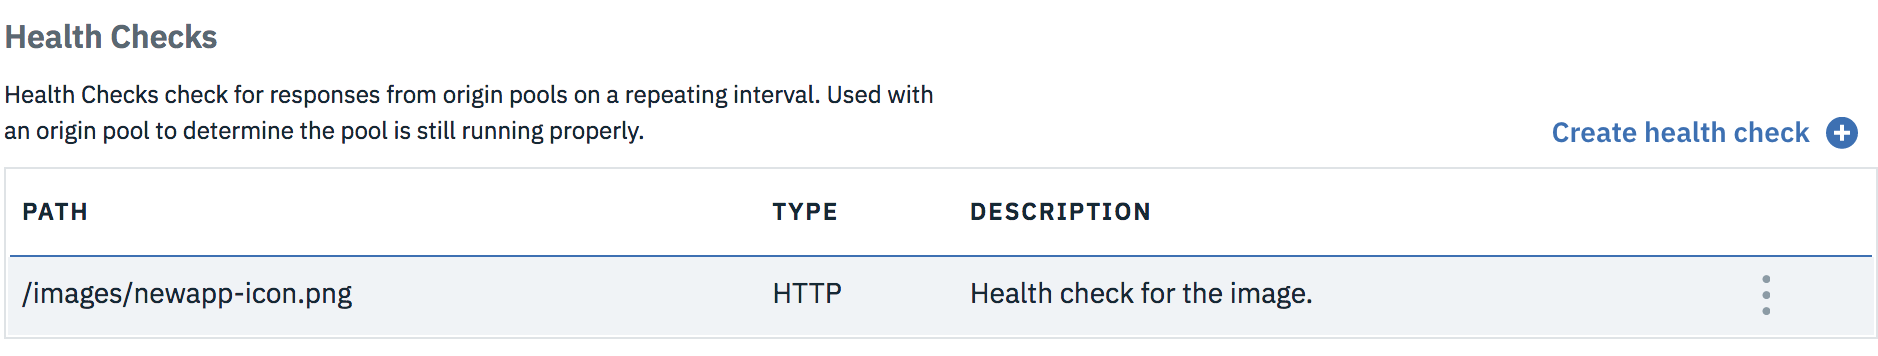
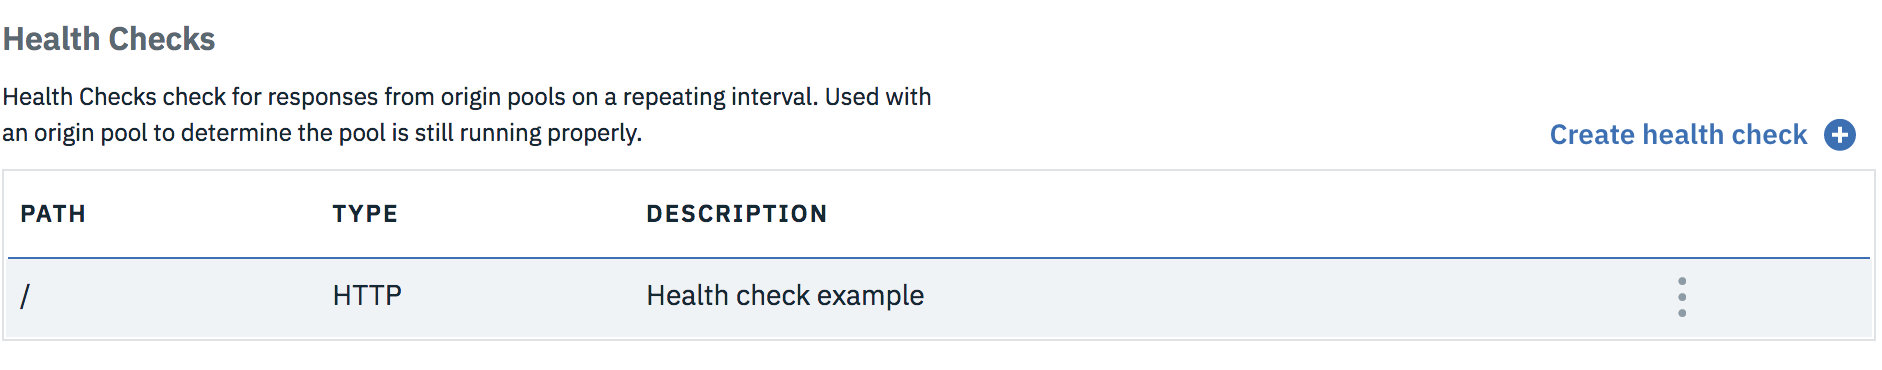
Incorporating comments in Fred's first round review

diff --git a/multi-region-webapp.md b/multi-region-webapp.md
@@ -22,7 +22,7 @@ Apps or parts of your apps will have outages - it is a fact. It can be a problem
 
 * Deploy a Cloud Foundry application to multiple regions with {{site.data.keyword.contdelivery_short}}.
 * Map a custom domain to the application.
-* Load balance across regions.
+* Configure global load balancing to your multi-region application.
 * Bind an SSL certificate to your application.
 * Monitor application performance.
 
@@ -31,7 +31,7 @@ Apps or parts of your apps will have outages - it is a fact. It can be a problem
 This tutorial uses the following runtimes and services:
 * [{{site.data.keyword.sdk4node}}](https://console.bluemix.net/catalog/starters/sdk-for-nodejs) Cloud Foundry App
 * [{{site.data.keyword.contdelivery_short}}](https://console.bluemix.net/catalog/services/continuous-delivery) for DevOps
-* [{{site.data.keyword.cis}}](https://console.bluemix.net/catalog/services/internet-services) for Internet services
+* [Internet services](https://console.bluemix.net/catalog/services/internet-services)
 
 This tutorial may incur costs. Use the [Pricing Calculator](https://console.bluemix.net/pricing/) to generate a cost estimate based on your projected usage.
 
@@ -41,7 +41,7 @@ This tutorial involves an active/active scenario where two copies of the applica
 
 <p style="text-align: center;">
 
-   ![Architecture](./images/solution1/Architecture_cis.png)
+   ![Architecture](./images/solution1/Architecture.png)
 </p>
 
 Some DNS providers may include capabilities to detect this situation and automatically route traffic to the other region. Another option would be to deploy a global load balancer in front of the applications and have the load balancer spread the traffic. This tutorial does not explore these options.
@@ -120,16 +120,19 @@ Next, we will deploy the same application to a different {{site.data.keyword.Blu
 
 {: #domain_cis}
 
-When deploying a real world application, you will likely want to use your own domain instead of the IBM-provided mybluemix.net domain. After you have a custom domain, you can use the DNS servers provided by IBM Cloud Internet Services.
+IBM [Cloud Internet Services](https://console.bluemix.net/docs/infrastructure/cis/getting-started.html#getting-started-with-ibm-cloud-internet-services-cis-) is a uniform platform to configure and manage DNS/GLB/WAF/DDoS for web applications. It provides a fast, highly performant, reliable, and secure internet service for customers running their business on IBM Cloud with three main capabilities to enhance your workflow: security, reliability, and performance.  
+
+When deploying a real world application, you will likely want to use your own domain instead of the IBM-provided mybluemix.net domain. In this step, after you have a custom domain, you can use the DNS servers provided by IBM Cloud Internet Services.
 
 1. Buy a domain from a registrar such as [http://godaddy.com](http://godaddy.com).
-2. Open another browser tab and navigate to the [Internet Services application](https://console.bluemix.net/catalog/services/internet-services) in the Bluemix catalog. 
+2. Open another browser tab and navigate to the [Internet Services application](https://console.bluemix.net/catalog/services/internet-services) in the {{site.data.keyword.Bluemix_notm}} catalog. 
 2. Enter a service name, and click **Create** to create an instance of the service.
 3. When the service instance is provisioned, add your domain URL to the Domain name field, and click **Add domain**.
 
    ![Add domain](https://console.bluemix.net/docs/api/content/infrastructure/cis/images/overview-add-domain.png?lang=en-US)
 4. When the name servers are assigned, configure your registrar or domain name provider to use the name servers listed.
-5. After you've configured your registrar or the DNS provider, it may require up to 24 hours for the changes to take effect. When the domain's status changes from Pending to Active, you can also use the `dig <your_domain_name> ns` command to verify that the IBM Cloud name servers have taken effect.
+
+Come back to the tutorial one day later. After you've configured your registrar or the DNS provider, it may require up to 24 hours for the changes to take effect. When the domain's status on the Overview page changes from *Pending* to *Active*, you can use the `dig <your_domain_name> ns` command to verify that the IBM Cloud name servers have taken effect. {:tip}
 
 ## Add Global Load Balancing to the application
 
@@ -140,22 +143,22 @@ Use a Global Load Balancer (GLB) in IBM Cloud Internet Services to manage the tr
 Before creating a GLB, create a health check for the GLB.
 
 1. In the Cloud Internet Services application, navigate to **Reliability** > **Global Load Balancer**, and at the bottom of the page, click **Create health check**.
-2. Enter the path that you want to monitor, for example, `/images/newapp-icon.png`, and select a type (HTTP or HTTPS). Click **Provision 1 Instance**.
+2. Enter the path that you want to monitor, for example, `/`, and select a type (HTTP or HTTPS). Typically you can create a dedicated health endpoint. Click **Provision 1 Instance**.
    ![Health Check](images/solution1/health_check.png)
 
 After that, create an origin pool with two origins.
 
 1. Click **Create Pool**.
 2. Enter a name for the pool, select the health check that you've just created, and a region that is close to the region of your node.js application.
-3.  Enter a name for the first origin, for example, `us-origion`, and the host name for the application in the US region, for example `cisnodejs.mybluemix.net`. 
-4. Similarly, add another origin with the origin address pointing to the application in the UK region, for example, cisnodejs. `eu-gb.mybluemix.net`.
+3.  Enter a name for the first origin, for example, `us-origin`, and the host name for the application in the US region, for example `cisnodejs.mybluemix.net`. 
+4. Similarly, add another origin with the origin address pointing to the application in the UK region, for example, `cisnodejs.eu-gb.mybluemix.net`.
 5. Click **Provision 1 Instance**.
    ![Origin Pool](images/solution1/origin_pool.png)
 
 Create a Global Load Balancer. 
 
 1. Click **Create Load Balancer**. 
-2. Enter a name for the Global Load Balancer, for example, `glb`. 
+2. Enter a name for the Global Load Balancer, for example, `glb`. This name will also be part of your universal application URL, for example, `http://glb.<your_domain_name>`, regardless of the region. 
 3. Click **Add pool** and select the origin pool that you have just created. 
 4. Click **Provision 1 Instance**.
    ![Global Load Balancer](images/solution1/load_balancer.png)
@@ -165,17 +168,53 @@ Create a Global Load Balancer.
 
 {: #add_domain}
 
-1. In the Bluemix catalog, switch to your account name from the menu bar in the {{site.data.keyword.Bluemix_notm}} console.
-2. On the Cloud account page, navigate to application **Cloud Froundry Orgs**, and select **Domains** from the Actions column.
-3. Click **Add a domain** and enter your domain acquired from the registrar. 
+1. In the {{site.data.keyword.Bluemix_notm}} catalog, switch to your account name from the menu bar in the [console](https://console.bluemix.net/dashboard/apps).
+2. On the Cloud account page, navigate to application **Cloud Foundry Orgs**, and select **Domains** from the Actions column.
+3. Click **Add a domain** and enter your custom domain name acquired from the registrar. 
 4. Select the right region and click **Save**.
-5. Similarly, add the custom domain to the UK region.
-4. Return to the Bluemix dashboard and click on the application in the US region, click **Route** > **Edit Routes**, and click **Add Route**.
+5. Similarly, add the custom domain name to the UK region.
+4. Return to the {{site.data.keyword.Bluemix_notm}} [dashboard](https://console.bluemix.net/dashboard/apps) and click on the application in the US region, click **Route** > **Edit Routes**, and click **Add Route**.
    ![Add a route](images/solution1/ApplicationRoutes.png) 
-5. Enter the mapped Global Load Balancer of your application, for example, type `glb` in the **Enter host (optional)** field, and select the custom domain that you have just added. Click **Save**.
+5. Enter the mapped GLB hostname of your application, for example, type `glb` in the **Enter host (optional)** field, and select the custom domain that you have just added. Click **Save**.
 6. Similarly, configure the domain and routes for the application in the UK region.
 
 At this point, you can visit your application with the URL `glb.<your_domain_name>` and the Global Load Balancer automatically distributes traffic for your multi-region applications.
+
+Although this works at this moment, as we have configured continuous delivery in the previous steps, the configuration can be overwritten when another build is trigged. To make these changes persistent, go back to the toolchains and modify the *manifest.yml* file:
+
+1. In the {{site.data.keyword.Bluemix_notm}} [console](https://console.bluemix.net/dashboard/apps), navigate to Application **Overview** and scroll to find **View toolchain**.
+2. Select the Git tile under Code. 
+3. Select *manifest.yml*. 
+4. Click **Edit** and add custom routes. Replace the original domain and host configurations with `Routes` only.
+
+   ```
+   applications:
+   - path: .
+	  name: cisnodejs
+	  memory: 256M
+	  instances: 1
+	  routes:
+	  - route: cisnodejs.mybluemix.net
+	  - route: <your_domain_name>
+	  - route: glb.<your_domain_name>
+	  disk_quota: 1024M
+  ```
+  {: pre}
+5. Commit the changes and make sure the builds for both regions succeed.  
+
+## Alternative: Map the custom domain to the IBM Cloud system domain
+
+It is possible that you do not want to utilize a Global Load Balancer in front of your multi-region applications, but need to map the custom domain name to the secure endpoint for the {{site.data.keyword.Bluemix_notm}} region where your application is running.
+
+With the Cloud Intenet Services application, take the following steps to set up `CNAME` records for your application:
+
+1. In the Cloud Internet Services application, navigate to **Reliability** > **DNS**. 
+2. Select **CNAME** from the **Type** drop-down list, type an alias for your application in the Name field, and the application URL in the domain name field. For example, `cisnodejs.mybluemix.net` in the US-South region can be mapped to `cisnodejs`. 
+3. Click **Add Record**. Switch the PROXY toggle to ON to enhance security of your application.
+2. Similarly, set the `CNAME` record for the UK endpoint.
+   ![CNAME records](images/solution1/cnames.png)
+
+If you are using a different DNS provider, the steps for setting up the CNAME record vary depending on your DNS provider. For example, if you are using GoDaddy, you follow the [Domains Help](https://www.godaddy.com/help/add-a-cname-record-19236) guidance from GoDaddy.
 
 ## Bind SSL certificate to your application
 {: #ssl}
